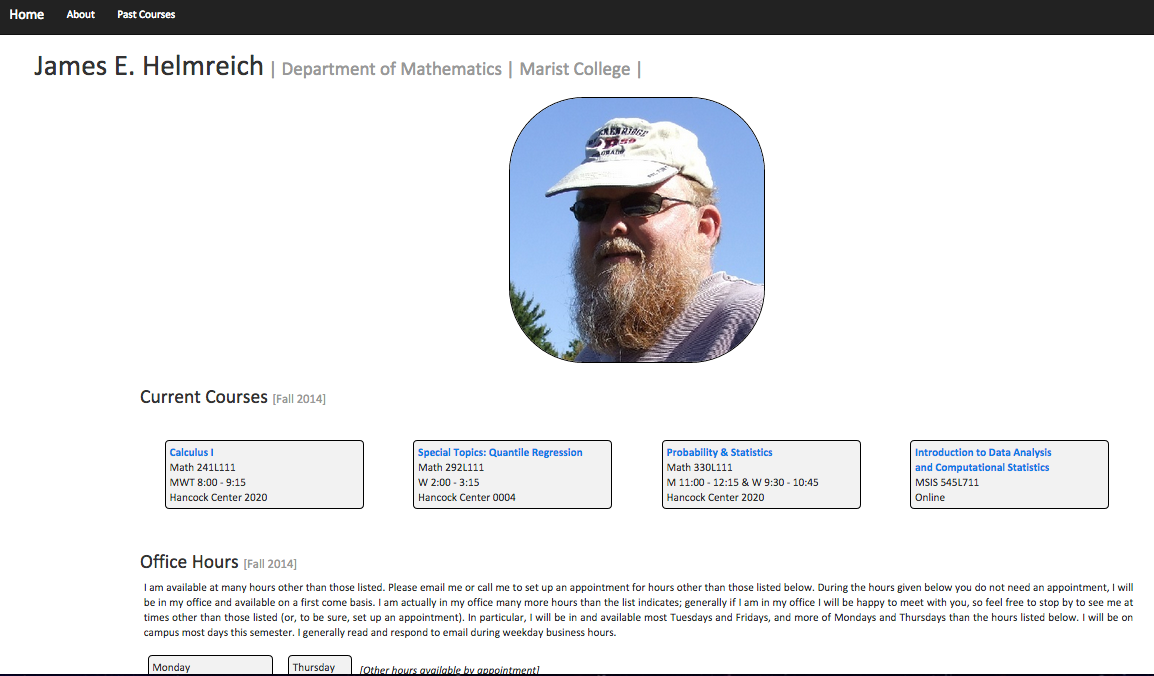
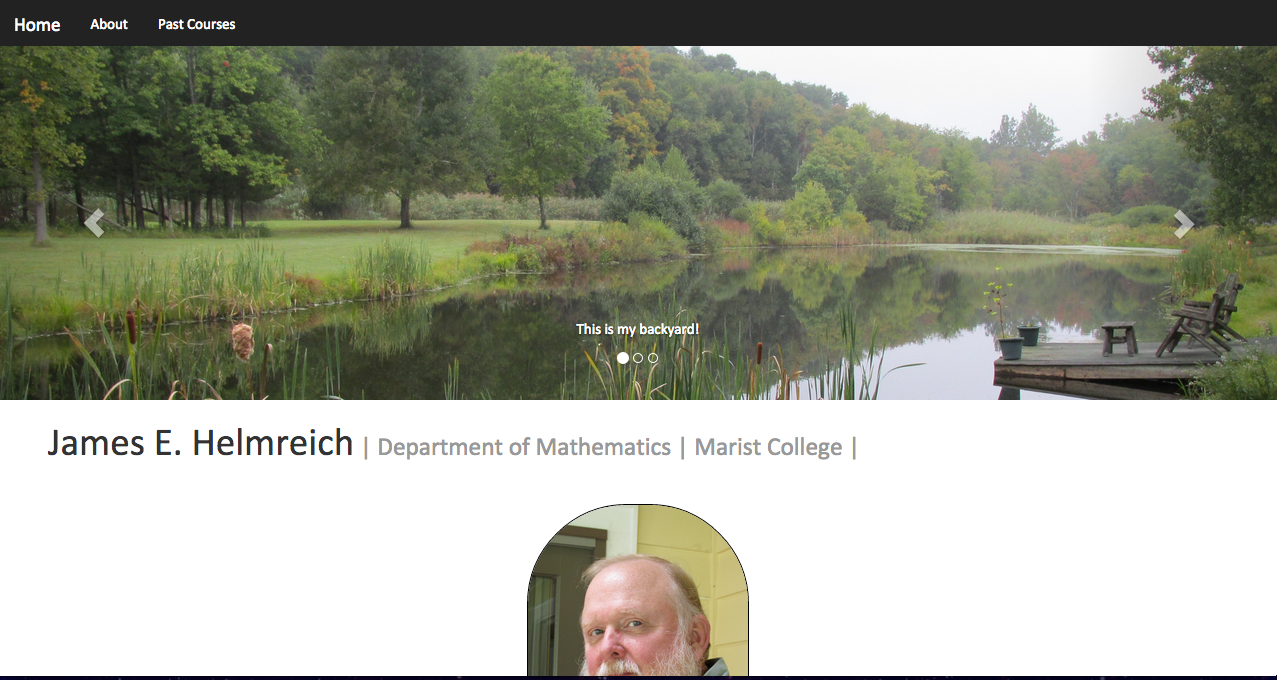
Updates to James Website on Projects Page

diff --git a/Projects.html b/Projects.html
@@ -38,7 +38,7 @@
         <div class="uk-width-1-3">
             <div class="uk-panel-box">
                 <h1><a href="http://foxweb.marist.edu/users/james.helmreich/">Pop's Site</a></h1>
-                <p>I redesigned the website for Professor James Helmreich (i.e. my father). Essentially I took it from a (pretty ugly) shade of orange to a much cleaner basic bootstrap scheme. In the future I would like to add a carousel of photos to the header on the homepage. In addition, I will be creating a Java app that will allow the user to view the basic interaction of a regression line compared to its quartile regression lines from a small dataset. 
+                <p>I redesigned the website for Professor James Helmreich (i.e. my father). Essentially I took it from a not-so-nice shade of orange to a much cleaner basic bootstrap scheme. I also added a carousel of photos to the header on the homepage. In the future, I would like to create a Java app that will allow the user to view the basic interaction of a regression line compared to its quartile regression lines from a small dataset. (He's a Statistics Professor.) 
                 </p>
                 <a href="#james" data-uk-modal><img src="James.png"></a>
                 <div id="james" class="uk-modal">
